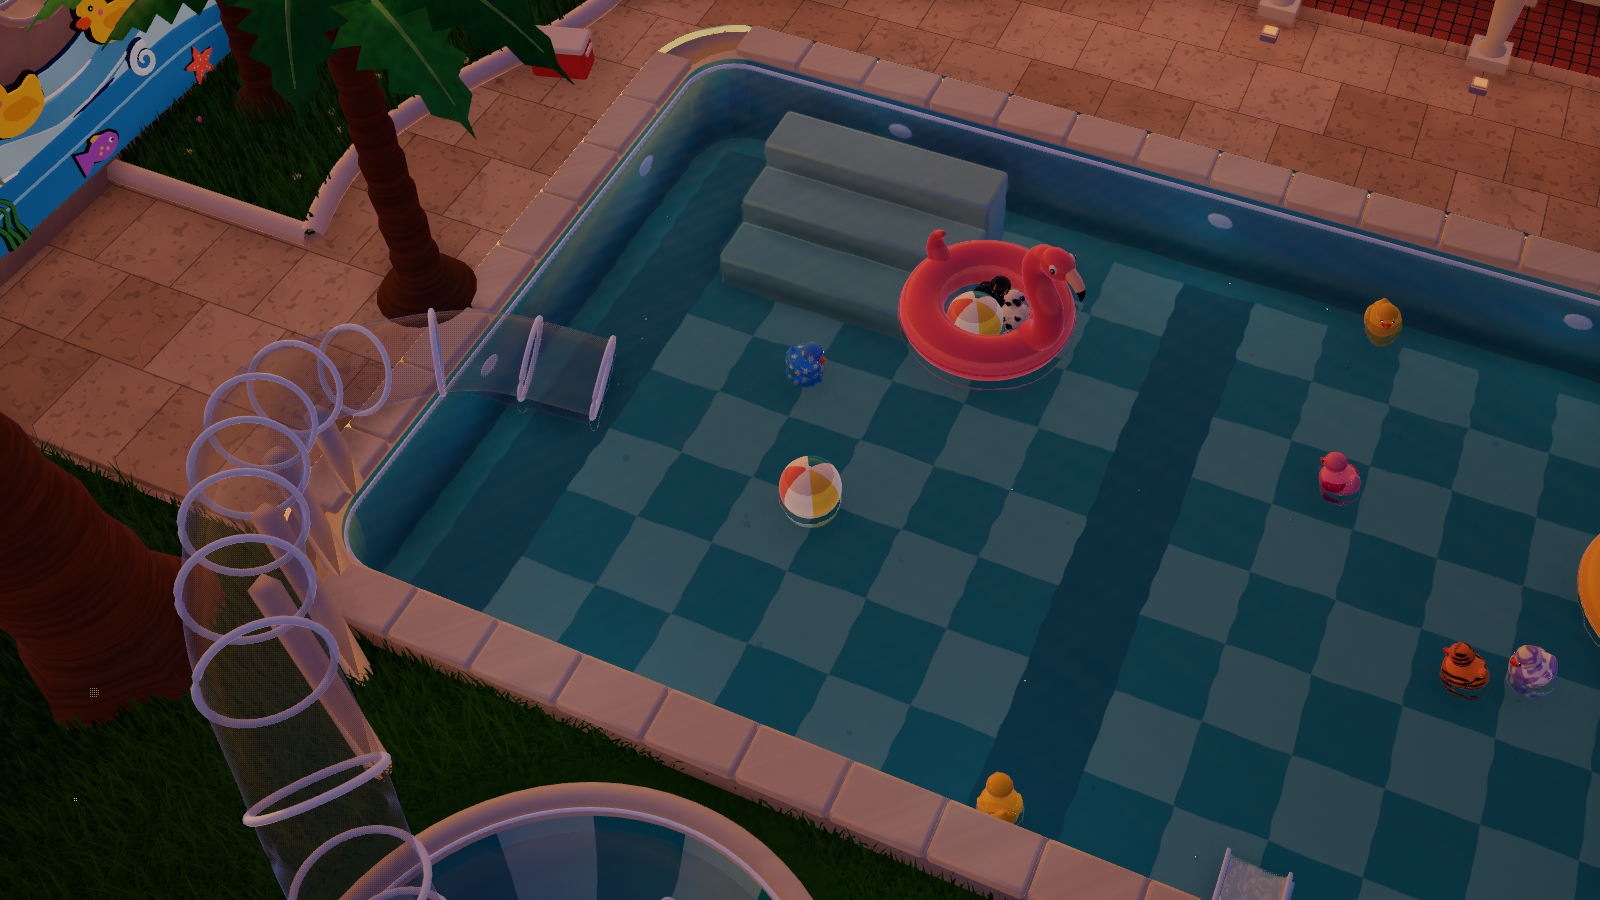
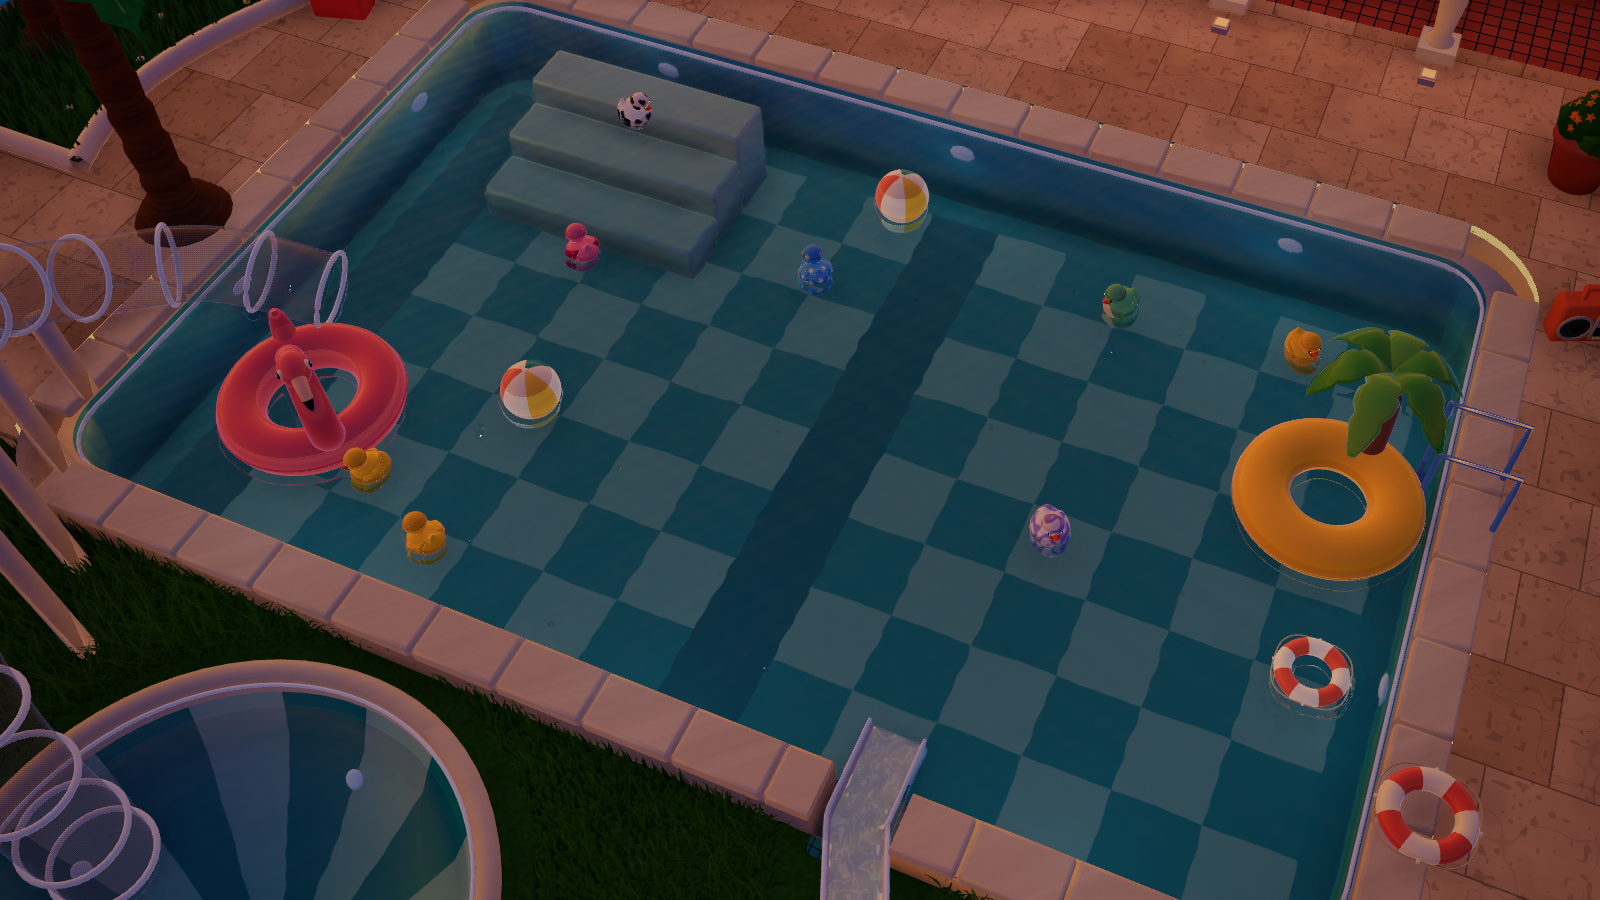
fix(rubber-duck-pool): story 006 review fixes from Sol
A key pressed in the book and still held after it closed sent its
repeats to the world while its release stayed blocked, so the world held
it down (seen in a real browser: hold W, close the book, focus leaves
the menu, let go; the camera kept moving and the player stood up). A key
pressed in the book now stays the book's until it is let go. The probe
gains { down, repeat } for a key's auto-repeat, and the pool-book drive
checks this case; it fails on the old code.

A summon did not look at what already floated on its spot. It now takes
its own spot, the other fixed spots, then a half-unit grid of open water
in the big pool (deep enough, clear of the slide's mouth and the ladder),
the first with clear water round it, or the roomiest when all are taken
(two node tests failed first; the first version, falling back to its own
spot, put two items 0.01 apart, which the phone-size drive caught).

The pool-summon drive now summons by a tap, by Space (focus kept, camera
still) and by Enter on ready buttons.

diff --git a/.claude/skills/verify/drive/pool-summon.js b/.claude/skills/verify/drive/pool-summon.js
@@ -2,7 +2,8 @@
 // clicks and keys). In the book an empty page's Summon into the pool is locked and says why, and pressing it summons
 // nothing. After Send the boat has brought things home, a found page's control is ready; pressing it puts that item
 // (the page's own, of its kind) in the pool, floating in the water, and the control then reads In the pool. Pressing it
-// again by click, Enter or Space puts nothing more there, a second found page summons a second, different item, the book's
+// again by click, Enter or Space puts nothing more there, a second found page summons a second, different item (by Space;
+// the first is by a touch, a third by Enter), the book's
 // found pages and times are as they were, no duck is lost or changed, and the camera stays. Escape closes the book and
 // gives focus back to Open the book. The hook steps the world's clock and reads the state; the presses are the player's.
 // Start from an empty store. window.__shot = 'page' stops with a found page open and its control ready (for its screenshot);
@@ -62,7 +63,7 @@
   out.push({ by: 'found page', page: first, label: label(), aria: aria(control()), hint: hint() })
   if (window.__shot === 'page') return JSON.stringify(out)
   const eye = view(), bodies = W.floaters.bodies.length, ducksBefore = W.ducks.slice(), duckStates = ducksBefore.map((x) => x.state)   // the pool adds ducks of its own over time: compare from here
-  await input({ click: at(control()) })
+  await input({ tap: at(control()) })   // a touch
   let list = h.summoned()
   if (list.length !== 1 || list[0].id !== first || list[0].kind !== kindOf(first)) fail(`pressing the control did not summon the page's item: ${JSON.stringify(list)}, the page is ${first}`)
   if (W.floaters.bodies.length !== bodies + 1) fail(`one summon added ${W.floaters.bodies.length - bodies} bodies`)
@@ -80,12 +81,20 @@
   // a different found page summons a different item, and the first stays
   await goTo(second)
   if (aria(control()) !== 'false' || label() !== 'Summon into the pool') fail(`the second found page's control is not ready: "${label()}", ${aria(control())}`)
-  control().focus(); await input({ key: 'Enter' })
+  const second0 = view(); control().focus(); await input({ key: ' ' })   // Space on a ready button
+  if (document.activeElement !== control() || moved(second0)) fail(`Space on the control lost focus or moved the camera: "${document.activeElement.textContent}"`)
   list = h.summoned()
   if (list.length !== 2 || new Set(list.map((i) => i.id)).size !== 2 || !list.some((i) => i.id === first) || !list.some((i) => i.id === second)) fail(`the second summon is wrong: ${JSON.stringify(list)}`)
   const apart = Math.hypot(list[0].at[0] - list[1].at[0], list[0].at[1] - list[1].at[1])
   if (apart < 0.3) fail(`the summoned items sit on one spot: ${apart}`)
   out.push({ by: 'second item', items: list, apart: +apart.toFixed(2) })
+  const third = found().find((id) => !list.some((i) => i.id === id))
+  if (third) {   // Enter on a ready button
+    await goTo(third); control().focus(); await input({ key: 'Enter' })
+    list = h.summoned()
+    if (list.length !== 3 || !list.some((i) => i.id === third)) fail(`Enter did not summon the third item: ${JSON.stringify(list)}`)
+    out.push({ by: 'third item, Enter', id: third })
+  }
 
   // nothing else changed: the book's finds, the ducks
   if (JSON.stringify(h.book.pages) !== pagesBefore) fail('summoning changed the book')
@@ -93,7 +102,7 @@
   if (ducksBefore.some((x, i) => x.state === 'sea' && duckStates[i] !== 'sea')) fail('summoning sent a duck to sea')
   await run(8, () => false)
   const later = h.summoned()
-  if (later.length !== 2 || later.some((i) => !i.at.every(Number.isFinite))) fail(`the summoned items did not stay in the pool: ${JSON.stringify(later)}`)
+  if (later.length !== list.length || later.some((i) => !i.at.every(Number.isFinite))) fail(`the summoned items did not stay in the pool: ${JSON.stringify(later)}`)
   out.push({ by: 'afterwards', ducks: W.ducks.length, finds: found(), drift: later.map((i, k) => +Math.hypot(i.at[0] - list[k].at[0], i.at[1] - list[k].at[1]).toFixed(2)) })
 
   // closing the book gives focus back; then stand to look at the pool

diff --git a/projects/rubber-duck-pool/src/pool/world.js b/projects/rubber-duck-pool/src/pool/world.js
@@ -75,7 +75,16 @@ export const TOYS = [
 ];
 
 const SUMMON_SPOTS = [[-1.9, -0.3], [0, -0.2], [2, -1.7]];
-const SUMMON_RADIUS = 0.12, SUMMON_DENSITY = 0.25;
+const SUMMON_RADIUS = 0.12, SUMMON_DENSITY = 0.25, SUMMON_CLEAR = 0.05;   // clear: the water kept between a summoned item and what already floats there
+// Where else a summoned item may go when its own spot is taken: open water in the big pool on a half-unit grid, deep
+// enough (not the steps), clear of the slide's mouth and the ladder.
+const SUMMON_GRID = (() => {
+  const out = [];
+  for (let x = P.MAIN[0]; x <= P.MAIN[2]; x += 0.5) for (let z = P.MAIN[1]; z <= P.MAIN[3]; z += 0.5)
+    if (P.mainD(x, z) < -(SUMMON_RADIUS + 0.1) && P.terrainH(x, z) < P.LU - SUMMON_RADIUS - 0.02
+      && Math.hypot(x - P.MOUTH[0], z - P.MOUTH[1]) > 0.6 && Math.hypot(x - P.MAIN[2], z + 0.6 * P.K) > 0.7) out.push([x, z]);
+  return out;
+})();
 
 export function createWorld(opts = {}) {
   const R = P.rng(opts.seed || 14);
@@ -112,7 +121,11 @@ export function createWorld(opts = {}) {
     const i = COLLECTIBLES.findIndex(item => item.id === id);
     if (i < 0) return false;
     if (W.summons.has(id)) return 'present';
-    const {kind} = COLLECTIBLES[i], [x,z] = SUMMON_SPOTS[i];
+    // its own spot, else the other fixed spots, else the grid nearest it first: the first with clear water round it; if
+    // none has, the one with the most room
+    const own = SUMMON_SPOTS[i], room = ([sx,sz]) => Math.min(Infinity, ...floaters.bodies.map(b => Math.hypot(b.p[0] - sx, b.p[2] - sz) - b.rad - SUMMON_RADIUS));
+    const spots = [own, ...SUMMON_SPOTS.filter((_, k) => k !== i), ...[...SUMMON_GRID].sort((a, b) => Math.hypot(a[0]-own[0], a[1]-own[1]) - Math.hypot(b[0]-own[0], b[1]-own[1]))];
+    const {kind} = COLLECTIBLES[i], [x,z] = spots.find(s => room(s) >= SUMMON_CLEAR) ?? spots.reduce((best, s) => room(s) > room(best) ? s : best);
     const body = floaters.add({ spheres: [[0,0,0,SUMMON_RADIUS]], rho: SUMMON_DENSITY, p: [x,P.LU+0.02,z], mu: 0.3, e: 0.5 });
     body.summonId = id; body.reach = SUMMON_RADIUS;
     summoned.push({id,kind,body}); events.push({type:'summoned',id,x,z});

diff --git a/projects/rubber-duck-pool/src/pool/book-view.js b/projects/rubber-duck-pool/src/pool/book-view.js
@@ -63,9 +63,10 @@ export function createBookView({ root, book, summon, signal }) {
   on(prev, 'click', () => { if (index > 0) { index--; render(book.pages); } });
   on(next, 'click', () => { const pages = book.pages; if (index < pages.length - 1) { index++; render(pages); } });
   on(closeButton, 'click', close);
-  // A key held before opening must still reach the world on release.
+  // A key held before opening must still reach the world on release. A key pressed in the book stays the book's until it
+  // is let go, even once the book has closed: its repeats reaching the world without its release would hold it down there.
   const bookKeys = new Set();
-  window.addEventListener('keydown', e => { if (!dialog.open) return; if (!e.repeat) bookKeys.add(e.code); e.stopPropagation(); if (e.key === 'Escape') { e.preventDefault(); close(); } }, { signal, capture: true });
+  window.addEventListener('keydown', e => { if (!dialog.open) { if (bookKeys.has(e.code)) e.stopPropagation(); return; } if (!e.repeat) bookKeys.add(e.code); e.stopPropagation(); if (e.key === 'Escape') { e.preventDefault(); close(); } }, { signal, capture: true });
   window.addEventListener('keyup', e => { if (bookKeys.delete(e.code)) e.stopPropagation(); }, { signal, capture: true });
   window.addEventListener('blur', () => bookKeys.clear(), { signal });
   on(dialog, 'cancel', e => { e.preventDefault(); e.stopPropagation(); close(); });

diff --git a/.claude/skills/verify/drive/pool-book.js b/.claude/skills/verify/drive/pool-book.js
@@ -72,6 +72,13 @@
   await input({ click: at(close) }); const closedByClick = !d.open && document.activeElement === opener
   if (!openedByEnter || !closedByEnter || !openedByClick || !closedByClick) fail(`Enter or a click did not open and close the book: ${openedByEnter} ${closedByEnter} ${openedByClick} ${closedByClick}`)
   out.push({ by: 'Escape, Enter, click', focus: focus(), phase: h.seating.state.phase })
+  // a key pressed in the book and still held as it closes, focus then gone from the menu: it stays the book's until let go
+  await input({ click: at(opener) }); close.focus(); await input({ down: 'w' })
+  await input({ click: at(close) }); document.activeElement.blur()
+  const held = h.cam.target.slice()
+  await input({ down: 'w', repeat: true }, { down: 'w', repeat: true }, { down: 'w', repeat: true }, { up: 'w' }); await wait(400)
+  if (h.seating.state.phase !== 'seated' || Math.hypot(...h.cam.target.map((v, i) => v - held[i])) > 1e-6) fail(`a key pressed in the book and let go after it closed was held down in the world: ${h.seating.state.phase}`)
+  out.push({ by: 'held across closing', phase: h.seating.state.phase })
 
   if (!(await run(60, () => item().state === 'adrift'))) fail(`no bottle adrift within 60 s of world time: ${item().state}`)
   await input({ click: at($('.seat-ui .seat-send')) })

diff --git a/projects/rubber-duck-pool/docs/improvements.md b/projects/rubber-duck-pool/docs/improvements.md
@@ -209,7 +209,8 @@ jelly의 14번(Pool Jelly)으로 만들었다가 기능이 많아져 따로 뺀 
 - [정함, 사용자 결정 대기] 임시 가정이라 바꾸기 쉬운 자리에 있음. 풀장의 자리는 항목마다 고정 하나(`SUMMON_SPOTS`, `world.js`), 크기와 밀도는 `SUMMON_RADIUS`, `SUMMON_DENSITY`. 그림은 바다의 항목과 같은 임시 모델(공, 구명환: `COLLECTIBLE_MODELS`). 오래 있는 시간과 없애는 방법은 정해 둔 것이 없음(reset까지 남음).
 - [고침] Terra가 도감에서 시작한 키의 keyup이 세계로 가지 않게 막았음(열기 전부터 누르던 키의 놓음은 그대로 통과). 스토리 3의 "도감을 열기 전에 누른 키는 놓을 수 있어야 함"과 함께 가는 규칙이고, 노드 테스트가 둘 다 확인.
 - [확인] `pool-summon` 드라이브(진짜 입력): 빈 쪽의 단추가 잠겨 있고 이유를 알리며 아무것도 불러오지 않음, 보트로 건진 뒤 찾은 쪽에서 눌러 그 쪽의 항목이 풀장에 생김(종류와 id가 쪽과 같음), 반복해 눌러도 하나, 다른 쪽의 항목은 따로 생겨 둘이 떨어져 있음, 도감 기록과 오리가 그대로, 카메라가 안 움직임, Esc로 닫으면 포커스가 돌아옴. 데스크톱과 폰 크기에서 통과. 스크린샷 `production/qa/evidence/story-006-summon-into-pool/summon-page.png`(찾은 쪽과 준비된 단추), `summon-pool.png`(풀장에 뜬 공 두 개와 오리들). 노드 테스트 113개와 다른 풀 드라이브 모두 통과.
-- [참고] 안내 문구가 도감 창 위쪽(쪽 번호 아래)에 있어 단추와 떨어져 보임(임시 배치). 풀장의 자리는 시작 배치가 비어 있다고 가정한 고정 지점이라, 나중에 그 자리로 다른 것이 오면 기존 물리가 밀어냄.
+- [참고] 안내 문구가 도감 창 위쪽(쪽 번호 아래)에 있어 단추와 떨어져 보임(임시 배치).
+- [고침, Sol 검토] Sol(`gpt-6.1-sol`, medium)이 BLOCKING 하나, SHOULD FIX 둘을 냄. (1) 도감에서 누른 키가 도감이 닫힌 뒤 반복 keydown은 장면에 닿고 keyup은 막혀, 장면이 그 키를 계속 누른 것으로 알았음(Terra가 넣은 keyup 막기에서 생긴 것). 실제 브라우저에서 재현: W를 누른 채 닫고 포커스가 메뉴를 떠난 뒤 놓으면 카메라가 계속 움직이고 일어섬. 도감에서 누른 키는 놓을 때까지 닫힌 뒤에도 도감의 것이 되도록 고침. 프로브에 키의 자동 반복을 보내는 단계(`{ down, repeat }`)를 더하고 `pool-book` 드라이브에 이 경우를 넣음(고치기 전 코드에서 실패, 고친 뒤 통과). (2) 불러올 자리에 이미 무엇이 떠 있는지 보지 않았음. 자기 자리, 다른 고정 자리, 큰 풀장의 0.5 격자(물이 깊고 미끄럼틀 입구와 사다리에서 떨어진 곳) 순으로 비어 있는 첫 곳을 쓰고, 다 차 있으면 가장 여유 있는 곳을 씀(`SUMMON_GRID`, `SUMMON_CLEAR`). 노드 테스트 둘을 먼저 실패시킨 뒤 고침. 처음 고친 판(다 차면 자기 자리)은 폰 크기 드라이브가 두 항목이 0.01 떨어져 겹치는 것을 잡아 다시 고침. (3) 드라이브가 준비된 단추를 Space와 터치로 누르지 않았음. 이제 첫 항목은 터치, 둘째는 Space(포커스 유지·카메라 그대로), 셋째는 Enter로 불러옴. 노드의 DOM 대역 테스트로는 진짜 Space 동작을 볼 수 없어 드라이브가 맡음.
 
 ## 수집 목록 채우기 (스토리 5, 10-31)
 - [더함] 수집 목록이 병 하나에서 셋으로: `bottle-first`(병, 그대로), `bottle-second`(병), `diorama-first`(디오라마). 도감은 같은 목록으로 한 쪽씩이고, 앉은 메뉴의 보트로 건져 와 채움. 한 번 나간 보트는 그때 떠 있는 것을 모두 싣고 오며, 돌아오면 싣고 온 것의 쪽만 채워짐. 목록이 모두 채워지면 도감에 "Every page is found."가 나오고(앉은 메뉴의 "Pages found: 3 of 3."에도 붙음), 그 전에는 나오지 않음. 이전에 저장한 도감(병 하나만 찾은 것)은 찾은 것이 그대로이고 새 쪽만 비어 있음.
